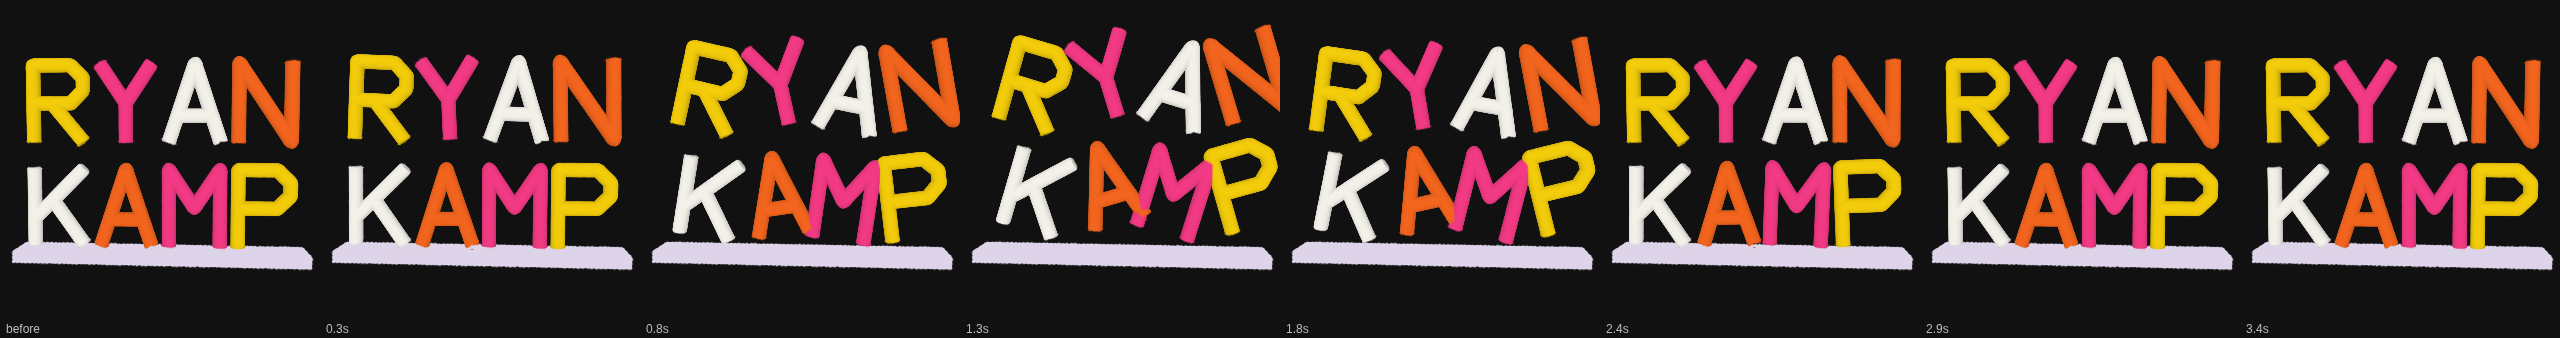
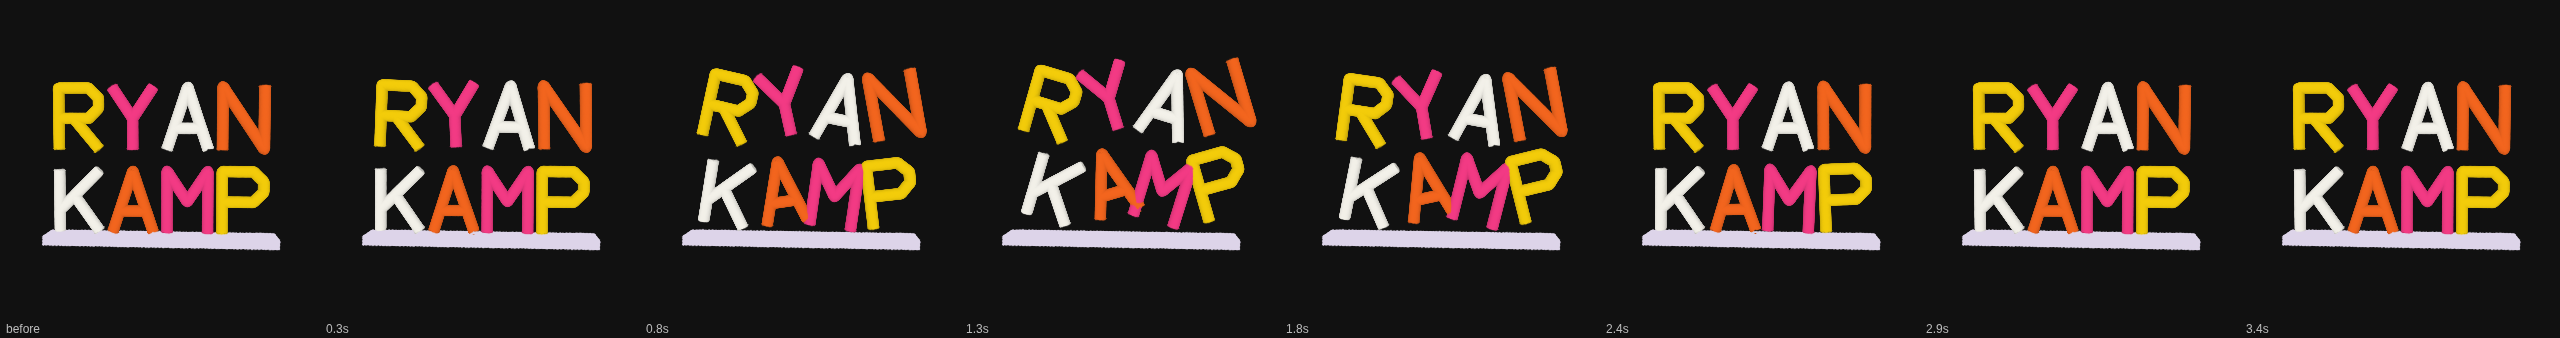
Codex task 78d: refresh Blow clips with phone framing

diff --git a/reviews/portfolio-d/README.md b/reviews/portfolio-d/README.md
@@ -16,3 +16,14 @@ not measure a real phone's frame rate and do not contain audio.
 - [Blow](blow.gif): a gust moves and tilts the letters, then they come home.
 
 The adjacent `*-strip.png` files show eight frames of each effect.
+
+## Phone Blow review
+
+[Blow on the phone profile](blow-phone.gif) shows the same tap gust at 390 × 390 pixels, from a 390
+× 844 viewport with labs enabled and the low profile's 24,000-splat Auto detail. The solid letters
+drift to the right and upward, tilt in the gust, and return to their rows. They stay inside the
+frame throughout the effect.
+
+This clip uses the `tools/effect-clip.mjs` capture loop with only its startup viewport and URL
+changed in a temporary runner. It keeps the same 12 frames per second and 3.6-second effect;
+[the phone strip](blow-phone-strip.png) shows 12 frames. It does not measure physical phone speed.
